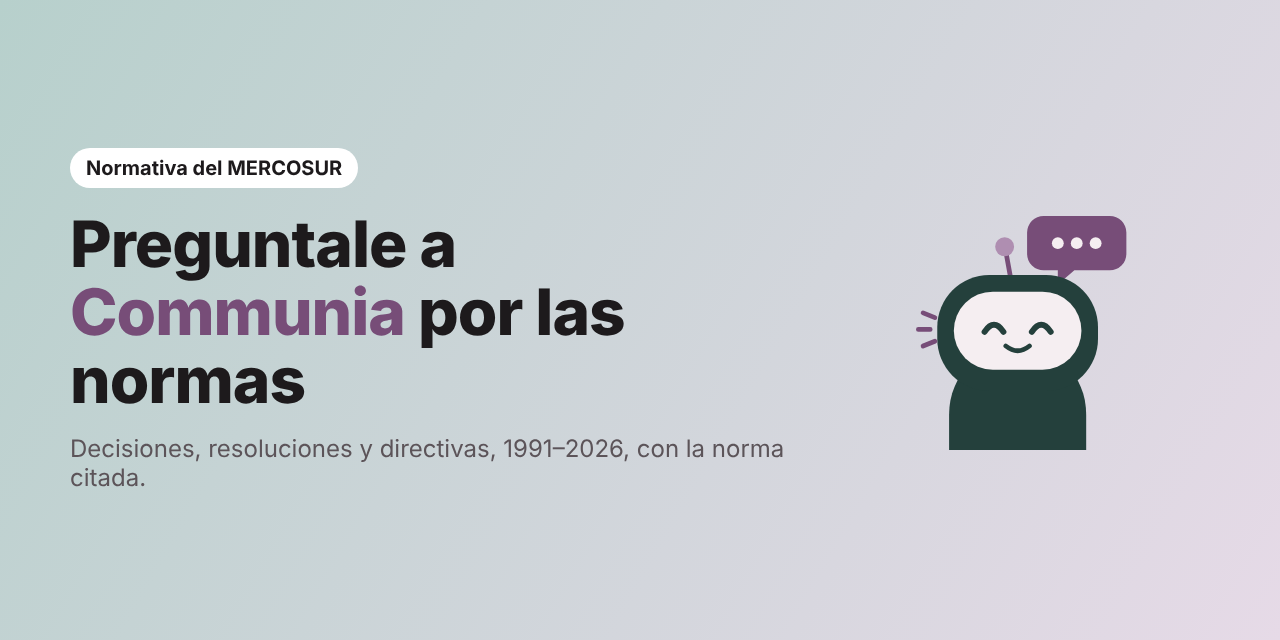
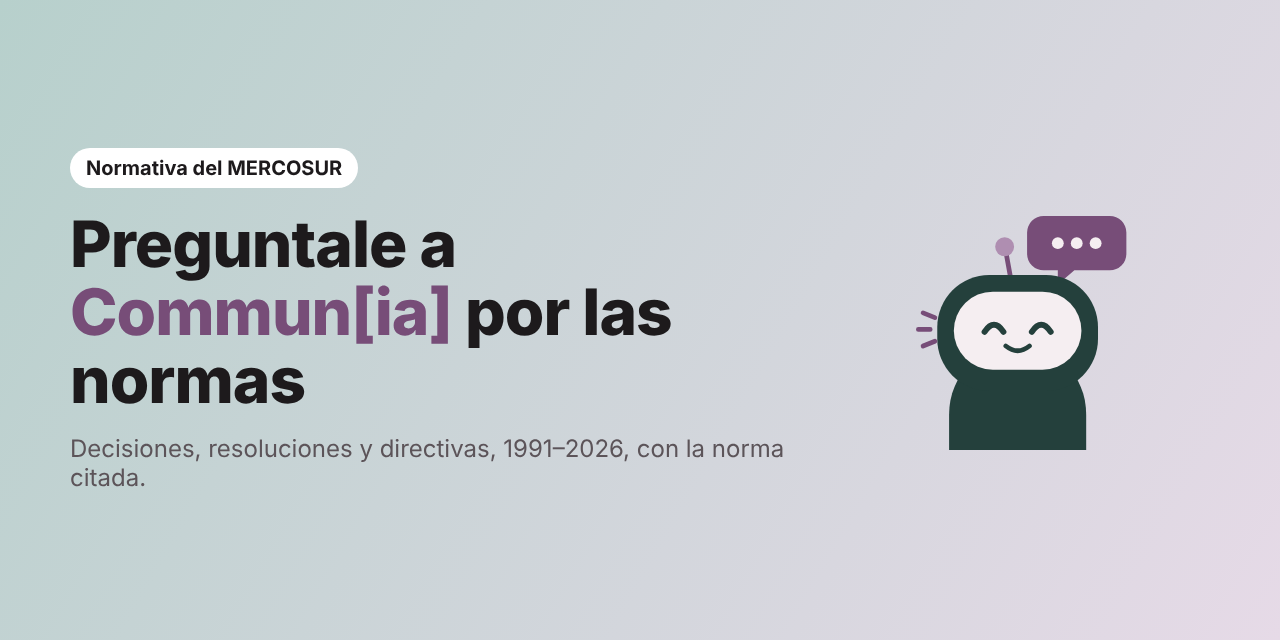
Nombre de la asistente: Commun[ia]

Changed region(s): [[0.2812, 0.4375, 0.5312, 0.5625]]

diff --git a/docs/index.html b/docs/index.html
@@ -3,7 +3,7 @@
 <head>
 <meta charset="utf-8">
 <meta name="viewport" content="width=device-width, initial-scale=1">
-<title>Normas del MERCOSUR: buscador de decisiones, resoluciones y directivas | Communia</title>
+<title>Normas del MERCOSUR: buscador de decisiones, resoluciones y directivas | Commun[ia]</title>
 <meta property="og:image" content="https://silvia-mov.github.io/normativa-mercosur/img/miniatura_index.png">
 <meta property="og:image:width" content="1280">
 <meta property="og:image:height" content="640">
@@ -115,9 +115,9 @@ h3.v { color:var(--accent); } h3.r { color:var(--pink); }
 <header class="hero">
   <div class="wrap">
     <div class="marca"><img src="logo.svg" alt=""><span><b>Normas MERCOSUR</b><br><small>Asistente de consultas · proyecto independiente</small></span></div>
-    <div class="heroflex"><div><h1>Hola, soy <em>Communia</em>: tu asistente para la normativa MERCOSUR</h1>
+    <div class="heroflex"><div><h1>Hola, soy <em>Commun[ia]</em>: tu asistente para la normativa MERCOSUR</h1>
     <p class="lead">Preguntá y obtené respuestas basadas solo en el texto de las normas del MERCOSUR (1991–2026), con la norma citada: 1.130 decisiones del Consejo del Mercado Común, 2.181 resoluciones del Grupo Mercado Común (de 2.183 publicadas; 2 sin archivo) y 1.933 directivas de la Comisión de Comercio (de 1.934 publicadas).</p>
-    <p style="margin-top:6px;font-size:15px;color:var(--text2,#5c5459)">Communia es latín: «las cosas comunes». Sale del nombre del bloque: Mercado <b>COMÚN</b> + <b>IA</b>.</p></div><img class="mascota" src="communia.svg" alt="Communia, la asistente"></div>
+    <p style="margin-top:6px;font-size:15px;color:var(--text2,#5c5459)">Commun[ia] viene del latín <i>communia</i>, «las cosas comunes», y sale del nombre del bloque: Mercado <b>COMÚN</b> + <b>IA</b>.</p></div><img class="mascota" src="communia.svg" alt="Commun[ia], la asistente"></div>
   </div>
 </header>
 
@@ -135,7 +135,7 @@ h3.v { color:var(--accent); } h3.r { color:var(--pink); }
   <div class="filtro"><label for="tipo">Buscar en</label>
     <select id="tipo"><option value="">todas las normas</option><option value="dec">Decisiones del CMC</option><option value="res">Resoluciones del GMC</option><option value="dir">Directivas de la CCM</option></select></div>
   <form id="form">
-    <textarea id="pregunta" rows="2" maxlength="500" placeholder="Preguntale a Communia sobre la normativa del MERCOSUR…" aria-label="Tu pregunta" disabled></textarea>
+    <textarea id="pregunta" rows="2" maxlength="500" placeholder="Preguntale a Commun[ia] sobre la normativa del MERCOSUR…" aria-label="Tu pregunta" disabled></textarea>
     <button id="enviar" disabled>Preguntar</button>
   </form>
   <div id="chat" aria-live="polite"></div>
@@ -143,9 +143,9 @@ h3.v { color:var(--accent); } h3.r { color:var(--pink); }
   <section class="info">
     <div class="rasgos">
       <div><h3 class="v">Trazabilidad directa</h3><p>Cada respuesta enlaza al texto exacto de la norma en el repositorio.</p></div>
-      <div><h3 class="r">Solo con las normas</h3><p>Communia responde únicamente con el texto de las normas; si no lo encuentra, lo dice.</p></div>
+      <div><h3 class="r">Solo con las normas</h3><p>Commun[ia] responde únicamente con el texto de las normas; si no lo encuentra, lo dice.</p></div>
     </div>
-    <div class="ejemplo"><div class="ej-in"><b>Communia responde:</b><p>Según la <b>Decisión CMC N° 05/23</b>, el nuevo Régimen de Origen MERCOSUR fija los requisitos para que un producto sea considerado originario y reciba la preferencia (versión vigente: su fe de erratas).</p><a href="https://github.com/silvia-mov/normativa-mercosur/blob/main/decisiones/2023/DEC_005-2023_ES_fe-de-erratas_regimen-de-origen-mercosur_v2.txt">decisiones/2023/DEC_005-2023 (fe de erratas) → Ver fuente</a></div></div>
+    <div class="ejemplo"><div class="ej-in"><b>Commun[ia] responde:</b><p>Según la <b>Decisión CMC N° 05/23</b>, el nuevo Régimen de Origen MERCOSUR fija los requisitos para que un producto sea considerado originario y reciba la preferencia (versión vigente: su fe de erratas).</p><a href="https://github.com/silvia-mov/normativa-mercosur/blob/main/decisiones/2023/DEC_005-2023_ES_fe-de-erratas_regimen-de-origen-mercosur_v2.txt">decisiones/2023/DEC_005-2023 (fe de erratas) → Ver fuente</a></div></div>
   </section>
 
   <section class="saber">
@@ -310,7 +310,7 @@ $("form").addEventListener("submit", async (e) => {
   if (!res.length) { agregar("bot", "<p>No encontré normas que hablen de eso. Probá con otras palabras.</p>"); return; }
   const frags = res.map((r) => { const [n, texto] = DATOS.fragmentos[r.id]; const [codigo, titulo, anio, url, tipo, vigencia] = DATOS.normas[n]; return { codigo, titulo, anio, url, tipo, vigencia, texto }; });
   if (!ASISTENTE_URL) { agregar("bot", "<p>Estas son las normas que mejor coinciden con tu pregunta:</p>" + fuentesHTML(frags)); return; }
-  const caja = agregar("bot", "<p>Communia está leyendo las normas…</p>");
+  const caja = agregar("bot", "<p>Commun[ia] está leyendo las normas…</p>");
   $("enviar").disabled = true;
   try {
     const r = await fetch(ASISTENTE_URL, { method: "POST", headers: { "Content-Type": "application/json" }, signal: AbortSignal.timeout(70000),
